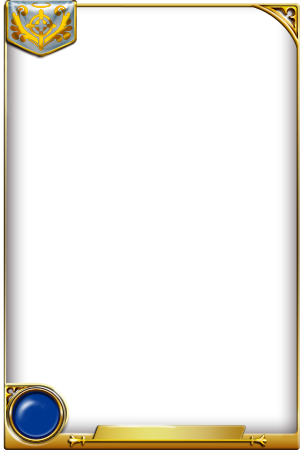
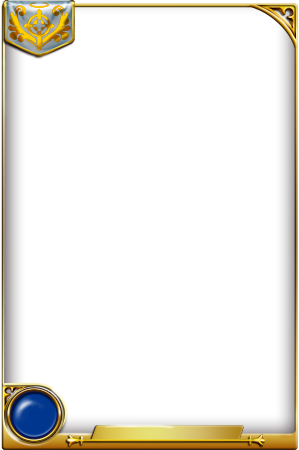
Add card frame.

Changed region(s): [[0.0, 0.0, 0.3311, 1.0], [0.8428, 0.0, 1.0, 1.0], [0.8127, 0.9644, 0.903, 0.9956]]

diff --git a/src/com/fight2/scene/SummonFinishScene.java b/src/com/fight2/scene/SummonFinishScene.java
@@ -25,6 +25,7 @@ import com.fight2.constant.MusicEnum;
 import com.fight2.constant.SceneEnum;
 import com.fight2.constant.TextureEnum;
 import com.fight2.entity.Card;
+import com.fight2.entity.engine.CardFrame;
 import com.fight2.util.AsyncTaskLoader;
 import com.fight2.util.F2MusicManager;
 import com.fight2.util.IAsyncCallback;
@@ -33,56 +34,58 @@ import com.fight2.util.ResourceManager;
 import com.fight2.util.TextureFactory;
 
 public class SummonFinishScene extends BaseScene {
-    private final static float CARD_WIDTH = 96.5f;
+    private final static float CARD_WIDTH = 96.5f * 3;
     private final static float CARD_HEIGHT = CARD_WIDTH * 1.5f;
-    private final Sprite cardSprite;
+    // private final Sprite cardSprite;
     private final IEntity cardFrame;
-    private final IEntity cardAttributeFrame;
+    // private final IEntity cardAttributeFrame;
     private final TextureFactory textureFactory = TextureFactory.getInstance();
-    private final Font mFont;
-    private final Text hpText;
-    private final Text atkText;
+    // private final Font mFont;
+    // private final Text hpText;
+    // private final Text atkText;
     private final static float SCALE = 0.3333f;
 
     public SummonFinishScene(final Card card, final GameActivity activity) throws IOException {
         super(activity);
-        this.mFont = ResourceManager.getInstance().getFont(FontEnum.Default, 27);
-        this.cardFrame = new Rectangle(cameraCenterX, cameraCenterY, CARD_WIDTH, CARD_HEIGHT, vbom);
+        this.cardFrame = new CardFrame(cameraCenterX, cameraCenterY, CARD_WIDTH, CARD_HEIGHT, card, activity);
+        // this.mFont = ResourceManager.getInstance().getFont(FontEnum.Default, 27);
+        // this.cardFrame = new Rectangle(cameraCenterX, cameraCenterY, CARD_WIDTH, CARD_HEIGHT, vbom);
         cardFrame.setRotation(90);
-        cardFrame.setAlpha(0);
+        cardFrame.setScale(SCALE);
+        // cardFrame.setAlpha(0);
         this.attachChild(cardFrame);
-        final ITextureRegion texture = textureFactory.getAssetTextureRegion(TextureEnum.COMMON_CARD_COVER);
-        this.cardSprite = new Sprite(CARD_WIDTH * 0.5f, CARD_HEIGHT * 0.5f, CARD_WIDTH, CARD_HEIGHT, texture, vbom);
-        cardFrame.attachChild(cardSprite);
-        loadImageFromServer(card);
-
-        this.cardAttributeFrame = new Rectangle(CARD_WIDTH * 0.5f, CARD_HEIGHT * 0.5f, CARD_WIDTH, CARD_HEIGHT, vbom);
-        cardFrame.attachChild(cardAttributeFrame);
-        cardAttributeFrame.setAlpha(0);
-        cardAttributeFrame.setVisible(false);
-        final ITextureRegion starTexture = textureFactory.getAssetTextureRegion(TextureEnum.COMMON_STAR);
-        for (int i = 0; i < card.getStar(); i++) {
-            final Sprite star = new Sprite(29 + 9f * i, CARD_HEIGHT - 8, starTexture, vbom);
-            star.setScale(SCALE);
-            cardAttributeFrame.attachChild(star);
-        }
-        final ITextureRegion hpAtkFrameTexture = textureFactory.getAssetTextureRegion(TextureEnum.COMMON_CARD_FRAME_HPATK);
-        final Sprite hpAtkFrame = new Sprite(CARD_WIDTH - 30, 25, hpAtkFrameTexture, vbom);
-        hpAtkFrame.setScale(SCALE);
-        cardAttributeFrame.attachChild(hpAtkFrame);
-        hpText = new Text(70, 70, mFont, "0123456789", vbom);
-        hpText.setColor(0XFFFFE3B0);
-        atkText = new Text(70, 23, mFont, "0123456789", vbom);
-        atkText.setColor(0XFFFFE3B0);
-        hpText.setText(String.valueOf(card.getHp()));
-        atkText.setText(String.valueOf(card.getAtk()));
-        hpAtkFrame.attachChild(hpText);
-        hpAtkFrame.attachChild(atkText);
-        final Font levelFont = ResourceManager.getInstance().getFont(FontEnum.Bold, 32);
-        final Text levelText = new Text(10.5f, 8.5f, levelFont, String.valueOf(card.getLevel()), vbom);
-        levelText.setColor(0XFFFFE3B0);
-        levelText.setScale(SCALE);
-        cardAttributeFrame.attachChild(levelText);
+        // final ITextureRegion texture = textureFactory.getAssetTextureRegion(TextureEnum.COMMON_CARD_COVER);
+        // this.cardSprite = new Sprite(CARD_WIDTH * 0.5f, CARD_HEIGHT * 0.5f, CARD_WIDTH, CARD_HEIGHT, texture, vbom);
+        // cardFrame.attachChild(cardSprite);
+        // loadImageFromServer(card);
+        //
+        // this.cardAttributeFrame = new Rectangle(CARD_WIDTH * 0.5f, CARD_HEIGHT * 0.5f, CARD_WIDTH, CARD_HEIGHT, vbom);
+        // cardFrame.attachChild(cardAttributeFrame);
+        // cardAttributeFrame.setAlpha(0);
+        // cardAttributeFrame.setVisible(false);
+        // final ITextureRegion starTexture = textureFactory.getAssetTextureRegion(TextureEnum.COMMON_STAR);
+        // for (int i = 0; i < card.getStar(); i++) {
+        // final Sprite star = new Sprite(29 + 9f * i, CARD_HEIGHT - 8, starTexture, vbom);
+        // star.setScale(SCALE);
+        // cardAttributeFrame.attachChild(star);
+        // }
+        // final ITextureRegion hpAtkFrameTexture = textureFactory.getAssetTextureRegion(TextureEnum.COMMON_CARD_FRAME_HPATK);
+        // final Sprite hpAtkFrame = new Sprite(CARD_WIDTH - 30, 25, hpAtkFrameTexture, vbom);
+        // hpAtkFrame.setScale(SCALE);
+        // cardAttributeFrame.attachChild(hpAtkFrame);
+        // hpText = new Text(70, 70, mFont, "0123456789", vbom);
+        // hpText.setColor(0XFFFFE3B0);
+        // atkText = new Text(70, 23, mFont, "0123456789", vbom);
+        // atkText.setColor(0XFFFFE3B0);
+        // hpText.setText(String.valueOf(card.getHp()));
+        // atkText.setText(String.valueOf(card.getAtk()));
+        // hpAtkFrame.attachChild(hpText);
+        // hpAtkFrame.attachChild(atkText);
+        // final Font levelFont = ResourceManager.getInstance().getFont(FontEnum.Bold, 32);
+        // final Text levelText = new Text(10.5f, 8.5f, levelFont, String.valueOf(card.getLevel()), vbom);
+        // levelText.setColor(0XFFFFE3B0);
+        // levelText.setScale(SCALE);
+        // cardAttributeFrame.attachChild(levelText);
         init();
     }
 
@@ -116,7 +119,7 @@ public class SummonFinishScene extends BaseScene {
     @Override
     protected void playAnimation() {
         F2MusicManager.getInstance().playMusic(MusicEnum.SUMMON);
-        final IEntityModifier modifier = new ParallelEntityModifier(new ScaleModifier(0.3f, 1f, 3), new RotationByModifier(0.3f, 270));
+        final IEntityModifier modifier = new ParallelEntityModifier(new ScaleModifier(0.3f, SCALE, 1), new RotationByModifier(0.3f, 270));
         cardFrame.registerEntityModifier(modifier);
     }
 
@@ -144,15 +147,15 @@ public class SummonFinishScene extends BaseScene {
             public void onComplete() {
 
                 if (image != null) {
-                    final ITextureRegion texture = textureFactory.getTextureRegion(image);
-                    final Sprite imageSprite = new Sprite(CARD_WIDTH * 0.5f, CARD_HEIGHT * 0.5f, CARD_WIDTH, CARD_HEIGHT, texture, vbom);
-                    cardSprite.attachChild(imageSprite);
-                    final ITextureRegion cardFrameTexture = textureFactory.getAssetTextureRegion(TextureEnum.COMMON_CARD_FRAME_ANGEL);
-                    final float frameY = (cardFrameTexture.getHeight() * 0.5f - 8.57f) * SCALE;
-                    final Sprite cardFrameSprite = new Sprite(CARD_WIDTH * 0.5f, frameY, cardFrameTexture, vbom);
-                    cardFrameSprite.setScale(SCALE);
-                    imageSprite.attachChild(cardFrameSprite);
-                    cardAttributeFrame.setVisible(true);
+                    // final ITextureRegion texture = textureFactory.getTextureRegion(image);
+                    // final Sprite imageSprite = new Sprite(CARD_WIDTH * 0.5f, CARD_HEIGHT * 0.5f, CARD_WIDTH, CARD_HEIGHT, texture, vbom);
+                    // cardSprite.attachChild(imageSprite);
+                    // final ITextureRegion cardFrameTexture = textureFactory.getAssetTextureRegion(TextureEnum.COMMON_CARD_FRAME_ANGEL);
+                    // final float frameY = (cardFrameTexture.getHeight() * 0.5f - 8.57f) * SCALE;
+                    // final Sprite cardFrameSprite = new Sprite(CARD_WIDTH * 0.5f, frameY, cardFrameTexture, vbom);
+                    // cardFrameSprite.setScale(SCALE);
+                    // imageSprite.attachChild(cardFrameSprite);
+                    // cardAttributeFrame.setVisible(true);
                 }
 
             }

diff --git a/src/com/fight2/entity/engine/CardFrame.java b/src/com/fight2/entity/engine/CardFrame.java
@@ -34,15 +34,15 @@ public class CardFrame extends Rectangle {
         super(x, y, width, height, activity.getVertexBufferObjectManager());
         this.activity = activity;
         this.vbom = activity.getVertexBufferObjectManager();
+        final BigDecimal decWidth = BigDecimal.valueOf(width);
+        final BigDecimal decBaseWidth = BigDecimal.valueOf(CARD_WIDTH);
+        final float scale = decWidth.divide(decBaseWidth, 6, RoundingMode.HALF_UP).floatValue();
+
         final ITextureRegion coverTexture = TEXTURE_FACTORY.getAssetTextureRegion(TextureEnum.COMMON_CARD_COVER);
-        cardSprite = new Sprite(width * 0.5f, height * 0.5f, width, height, coverTexture, vbom);
+        cardSprite = new Sprite(width * 0.5f, height * 0.5f, width + 3 * scale, height + 3 * scale, coverTexture, vbom);
         this.attachChild(cardSprite);
 
         loadImageFromServer(card);
-
-        final BigDecimal decWidth = BigDecimal.valueOf(width);
-        final BigDecimal decBaseWidth = BigDecimal.valueOf(CARD_WIDTH);
-        final float scale = decWidth.divide(decBaseWidth, RoundingMode.HALF_UP).floatValue();
 
         final ITextureRegion starTexture = TEXTURE_FACTORY.getAssetTextureRegion(TextureEnum.COMMON_STAR);
         for (int i = 0; i < card.getStar(); i++) {
@@ -63,31 +63,32 @@ public class CardFrame extends Rectangle {
         atkText.setText(String.valueOf(card.getAtk()));
         hpAtkFrame.attachChild(hpText);
         hpAtkFrame.attachChild(atkText);
-        final Font levelFont = ResourceManager.getInstance().getFont(FontEnum.Bold, (int) (32 * scale));
-        final Text levelText = new Text(10.5f * scale, 8.5f * scale, levelFont, String.valueOf(card.getLevel()), vbom);
-        levelText.setColor(0XFFFFE3B0);
-        this.attachChild(levelText);
 
         final ITextureRegion cardFrameTexture = getTexture(card);
-        final float frameY = (cardFrameTexture.getHeight() * 0.5f - 8.57f) * scale;
+        final float frameY = (cardFrameTexture.getHeight() * 0.5f - 11f) * scale;
         final Sprite cardFrameSprite = new Sprite(width * 0.5f, frameY, cardFrameTexture, vbom);
         cardFrameSprite.setScale(scale);
         this.attachChild(cardFrameSprite);
+
+        final Font levelFont = ResourceManager.getInstance().getFont(FontEnum.Bold, (int) (32 * scale));
+        final Text levelText = new Text(31.5f * scale, 25.5f * scale, levelFont, String.valueOf(card.getLevel()), vbom);
+        levelText.setColor(0XFFFFE3B0);
+        this.attachChild(levelText);
     }
 
     private static ITextureRegion getTexture(final Card card) {
         TextureEnum textureEnum;
         switch (card.getRace()) {
-            case 0:
+            case Human:
                 textureEnum = TextureEnum.COMMON_CARD_FRAME_HUMAN;
                 break;
-            case 1:
+            case Angel:
                 textureEnum = TextureEnum.COMMON_CARD_FRAME_ANGEL;
                 break;
-            case 2:
+            case Elf:
                 textureEnum = TextureEnum.COMMON_CARD_FRAME_ELF;
                 break;
-            case 3:
+            case Devil:
                 textureEnum = TextureEnum.COMMON_CARD_FRAME_DEVIL;
                 break;
             default:
@@ -121,7 +122,7 @@ public class CardFrame extends Rectangle {
 
                 if (image != null) {
                     final ITextureRegion texture = TEXTURE_FACTORY.getTextureRegion(image);
-                    final Sprite imageSprite = new Sprite(mWidth * 0.5f, mHeight * 0.5f, mWidth * getScaleX(), mHeight * getScaleY(), texture, vbom);
+                    final Sprite imageSprite = new Sprite(mWidth * 0.5f, mHeight * 0.5f, mWidth, mHeight, texture, vbom);
                     cardSprite.attachChild(imageSprite);
                 }
 

diff --git a/src/com/fight2/util/GuildUtils.java b/src/com/fight2/util/GuildUtils.java
@@ -17,6 +17,7 @@ import com.fight2.GameActivity;
 import com.fight2.entity.Bid;
 import com.fight2.entity.Bid.BidItemType;
 import com.fight2.entity.Bid.BidStatus;
+import com.fight2.entity.Card.Race;
 import com.fight2.entity.Card;
 import com.fight2.entity.GameUserSession;
 import com.fight2.entity.Guild;
@@ -114,6 +115,7 @@ public class GuildUtils {
                 card.setAtk(cardJson.getInt("atk"));
                 card.setName(cardJson.getString("name"));
                 card.setStar(cardJson.getInt("star"));
+                card.setRace(Race.valueOf(cardJson.getString("race")));
                 final String image = cardJson.getString("image");
                 if (image != null && !"".equals(image)) {
                     final String localImage = ImageUtils.getLocalString(image, activity);
@@ -353,6 +355,7 @@ public class GuildUtils {
                     card.setAtk(cardJson.getInt("atk"));
                     card.setName(cardJson.getString("name"));
                     card.setStar(cardJson.getInt("star"));
+                    card.setRace(Race.valueOf(cardJson.getString("race")));
                     final String image = cardJson.getString("image");
                     if (image != null && !"".equals(image)) {
                         final String localImage = ImageUtils.getLocalString(image, activity);

diff --git a/src/com/fight2/util/CardUtils.java b/src/com/fight2/util/CardUtils.java
@@ -13,6 +13,7 @@ import com.fight2.entity.Card;
 import com.fight2.entity.GameUserSession;
 import com.fight2.entity.Party;
 import com.fight2.entity.PartyInfo;
+import com.fight2.entity.Card.Race;
 
 public class CardUtils {
 
@@ -76,6 +77,7 @@ public class CardUtils {
                 card.setImage(cardJson.getString("image"));
                 card.setName(cardJson.getString("name"));
                 card.setSkill(cardJson.optString("skill"));
+                card.setRace(Race.valueOf(cardJson.getString("race")));
                 final JSONObject cardTemplateJson = cardJson.getJSONObject("cardTemplate");
                 card.setTemplateId(cardTemplateJson.getInt("id"));
                 cards.add(card);
@@ -125,6 +127,7 @@ public class CardUtils {
                         card.setStar(cardJson.getInt("star"));
                         card.setTier(cardJson.getInt("tier"));
                         card.setLevel(cardJson.getInt("level"));
+                        card.setRace(Race.valueOf(cardJson.getString("race")));
                         final String avatar = cardJson.optString("avatar");
                         if (avatar != null && !"".equals(avatar)) {
                             final String localAvatar = ImageUtils.getLocalString(avatar, activity);

diff --git a/src/com/fight2/util/AccountUtils.java b/src/com/fight2/util/AccountUtils.java
@@ -21,6 +21,7 @@ import android.content.Context;
 
 import com.fight2.GameActivity;
 import com.fight2.entity.Card;
+import com.fight2.entity.Card.Race;
 import com.fight2.entity.GameUserSession;
 import com.fight2.entity.Party;
 import com.fight2.entity.PartyInfo;
@@ -104,6 +105,7 @@ public class AccountUtils {
                 card.setSkill(cardJson.optString("skill"));
                 final JSONObject cardTemplateJson = cardJson.getJSONObject("cardTemplate");
                 card.setTemplateId(cardTemplateJson.getInt("id"));
+                card.setRace(Race.valueOf(cardJson.getString("race")));
                 cards.add(card);
             }
             TextureFactory.getInstance().loadCardsResource(activity);
@@ -203,6 +205,7 @@ public class AccountUtils {
                     TextureFactory.getInstance().addCardResource(activity, localImage);
                 }
                 card.setAmount(cardJson.getInt("amount"));
+                card.setRace(Race.valueOf(cardJson.getString("race")));
                 cards.add(card);
             }
             userStoreroom.setCards(cards);

diff --git a/src/com/fight2/util/ArenaUtils.java b/src/com/fight2/util/ArenaUtils.java
@@ -20,6 +20,7 @@ import com.fight2.entity.ArenaReward;
 import com.fight2.entity.ArenaReward.ArenaRewardType;
 import com.fight2.entity.ArenaRewardItem;
 import com.fight2.entity.ArenaRewardItem.ArenaRewardItemType;
+import com.fight2.entity.Card.Race;
 import com.fight2.entity.Card;
 import com.fight2.entity.Guild;
 import com.fight2.entity.User;
@@ -184,6 +185,7 @@ public class ArenaUtils {
                         card.setAtk(cardJson.getInt("atk"));
                         card.setHp(cardJson.getInt("hp"));
                         card.setStar(cardJson.getInt("star"));
+                        card.setRace(Race.valueOf(cardJson.getString("race")));
                         final String image = cardJson.getString("image");
                         if (image != null && !"".equals(image)) {
                             final String localImage = ImageUtils.getLocalString(image, activity);

diff --git a/src/com/fight2/util/QuestUtils.java b/src/com/fight2/util/QuestUtils.java
@@ -12,6 +12,7 @@ import org.json.JSONObject;
 import com.fight2.GameActivity;
 import com.fight2.entity.Card;
 import com.fight2.entity.QuestResult;
+import com.fight2.entity.Card.Race;
 import com.fight2.entity.QuestResult.TileItem;
 import com.fight2.entity.QuestTile;
 import com.fight2.entity.QuestTreasureData;
@@ -41,6 +42,7 @@ public class QuestUtils {
                     card.setImage(cardJson.getString("image"));
                     card.setName(cardJson.getString("name"));
                     card.setSkill(cardJson.optString("skill"));
+                    card.setRace(Race.valueOf(cardJson.getString("race")));
                     final JSONObject cardTemplateJson = cardJson.getJSONObject("cardTemplate");
                     card.setTemplateId(cardTemplateJson.getInt("id"));
                     result.setCard(card);

diff --git a/src/com/fight2/constant/TextureEnum.java b/src/com/fight2/constant/TextureEnum.java
@@ -29,8 +29,8 @@ public enum TextureEnum {
     COMMON_INPUT_ICON("images/common_input_icon.png", 54, 53),
     COMMON_CHECKBOX_ON("images/common_checkbox_on.png", 40, 40),
     COMMON_CARD_FRAME_HUMAN("images/common_card_frame_human.png", 299, 450),
-    COMMON_CARD_FRAME_ANGEL("images/common_card_frame_angel.png", 300, 450),
-    COMMON_CARD_FRAME_DEVIL("images/common_card_frame_devil.png", 299, 453),
+    COMMON_CARD_FRAME_ANGEL("images/common_card_frame_angel.png", 299, 450),
+    COMMON_CARD_FRAME_DEVIL("images/common_card_frame_devil.png", 299, 450),
     COMMON_CARD_FRAME_ELF("images/common_card_frame_elf.png", 315, 455),
     COMMON_CARD_FRAME_HPATK("images/common_card_frame_hpatk.png", 160, 91),
 

diff --git a/src/com/fight2/entity/Card.java b/src/com/fight2/entity/Card.java
@@ -15,7 +15,7 @@ public class Card {
     private int templateId;
     private int version;
     private int amount;
-    private int race;
+    private Race race;
 
     public int getId() {
         return id;
@@ -129,12 +129,18 @@ public class Card {
         this.amount = amount;
     }
 
-    public int getRace() {
+    public Race getRace() {
         return race;
     }
 
-    public void setRace(final int race) {
+    public void setRace(final Race race) {
         this.race = race;
     }
 
+    public static enum Race {
+        Human,
+        Angel,
+        Elf,
+        Devil;
+    }
 }
